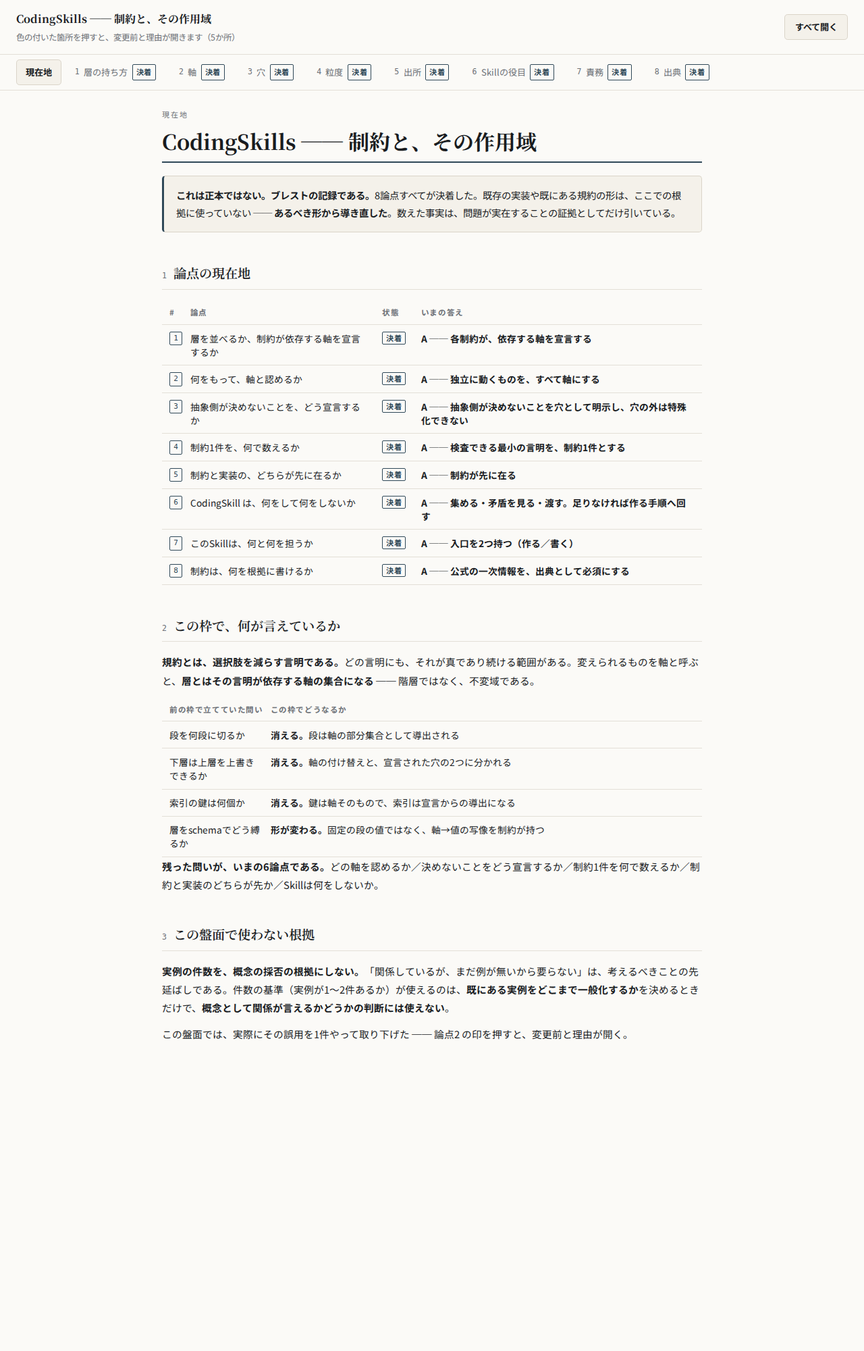
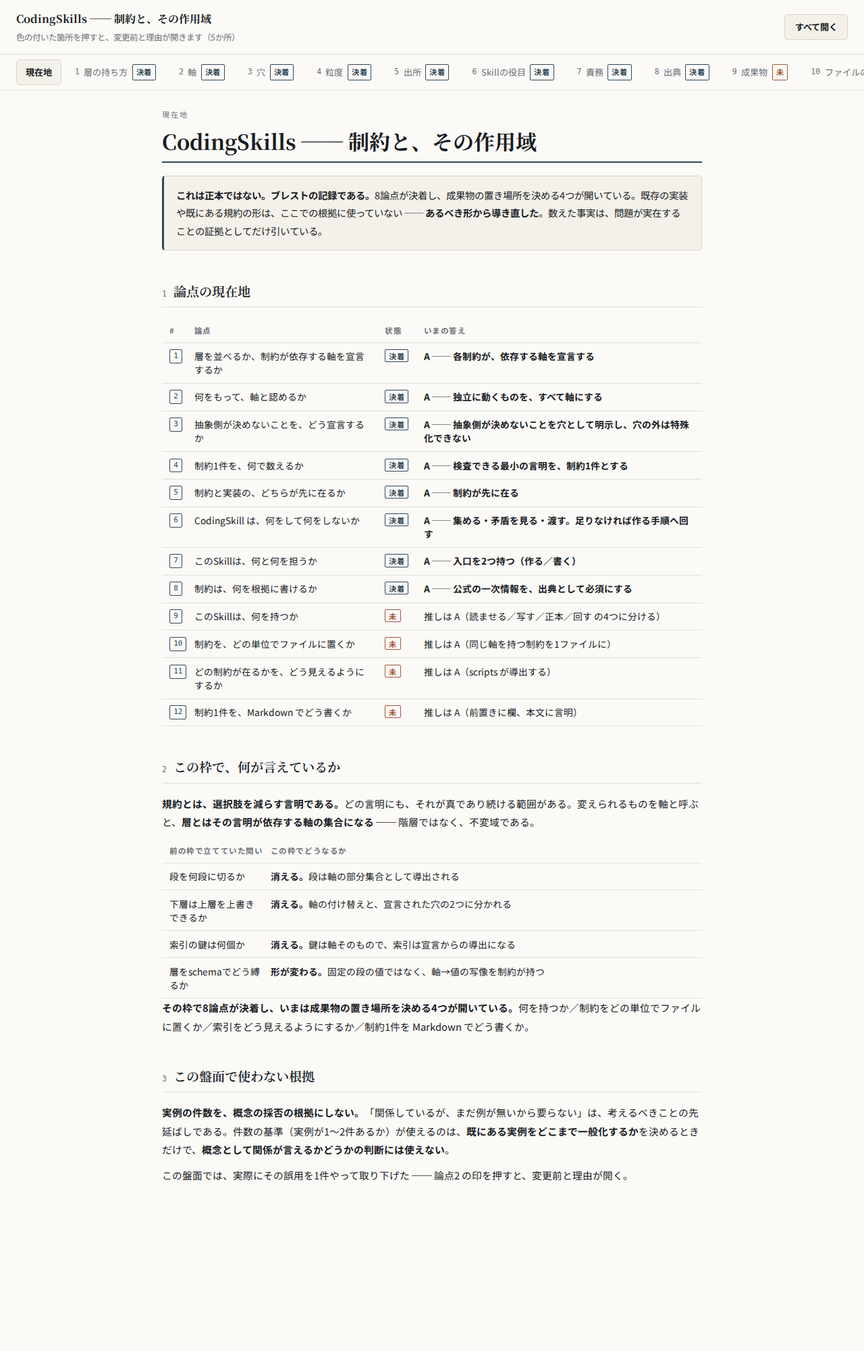
成果物と置き場所の4論点を立てる
論点9（何を持つか）・論点10（制約をどの単位でファイルに置くか）・
論点11（索引をどう見えるようにするか）・論点12（制約1件を Markdown でどう
書くか）を足した。図は2枚 ── フォルダごとの役割と、ファイルの切り方3案で
軸の宣言がどこに何回現れるか。

Why: schema へ落とす前に、まず Markdown の雛形を作る。そのためには、雛形が
どこに置かれ、正本がどこに在り、機械が何を回すかが先に要る。決まった8つから
導けるものは導き、選択が残るところだけを論点にした。

Claude-Session: https://claude.ai/code/session_01VoPqHBXHr7Npdh9tNXyFNU

diff --git a/docs/adr/brainstorm-coding-skills.html b/docs/adr/brainstorm-coding-skills.html
@@ -122,7 +122,7 @@ mark.chg.del b{text-decoration:line-through}
 .st.done{color:var(--key);border-color:var(--key)}
 .st.open{color:var(--add);border-color:var(--add)}
 section[role="tabpanel"][hidden]{display:none}
-</style><div class="hd"><div class="t">CodingSkills ── 制約と、その作用域<small>色の付いた箇所を押すと、変更前と理由が開きます（<span id="n">0</span>か所）</small></div><button id="all" type="button">すべて開く</button></div><div class="tabs" role="tablist"><button role="tab" aria-selected="true" data-t="p0">現在地</button><button role="tab" aria-selected="false" data-t="p1"><span class="tn">1</span>層の持ち方<span class="st done">決着</span></button><button role="tab" aria-selected="false" data-t="p2"><span class="tn">2</span>軸<span class="st done">決着</span></button><button role="tab" aria-selected="false" data-t="p3"><span class="tn">3</span>穴<span class="st done">決着</span></button><button role="tab" aria-selected="false" data-t="p4"><span class="tn">4</span>粒度<span class="st done">決着</span></button><button role="tab" aria-selected="false" data-t="p5"><span class="tn">5</span>出所<span class="st done">決着</span></button><button role="tab" aria-selected="false" data-t="p6"><span class="tn">6</span>Skillの役目<span class="st done">決着</span></button><button role="tab" aria-selected="false" data-t="p7"><span class="tn">7</span>責務<span class="st done">決着</span></button><button role="tab" aria-selected="false" data-t="p8"><span class="tn">8</span>出典<span class="st done">決着</span></button></div><main><section id="p0" role="tabpanel"><p class="eyebrow">現在地</p><h1>CodingSkills ── 制約と、その作用域</h1><div class="note"><b>これは正本ではない。ブレストの記録である。</b>8論点すべてが決着した。既存の実装や既にある規約の形は、ここでの根拠に使っていない ── <b>あるべき形から導き直した</b>。数えた事実は、問題が実在することの証拠としてだけ引いている。</div><h2><span class="sn">1</span>論点の現在地</h2><div class="scroll"><table class=""><tr><th>#</th><th>論点</th><th>状態</th><th>いまの答え</th></tr><tr><td><span class="n">1</span></td><td>層を並べるか、制約が依存する軸を宣言するか</td><td><span class="st done">決着</span></td><td><b>A ── 各制約が、依存する軸を宣言する</b></td></tr><tr><td><span class="n">2</span></td><td>何をもって、軸と認めるか</td><td><span class="st done">決着</span></td><td><b>A ── 独立に動くものを、すべて軸にする</b></td></tr><tr><td><span class="n">3</span></td><td>抽象側が決めないことを、どう宣言するか</td><td><span class="st done">決着</span></td><td><b>A ── 抽象側が決めないことを穴として明示し、穴の外は特殊化できない</b></td></tr><tr><td><span class="n">4</span></td><td>制約1件を、何で数えるか</td><td><span class="st done">決着</span></td><td><b>A ── 検査できる最小の言明を、制約1件とする</b></td></tr><tr><td><span class="n">5</span></td><td>制約と実装の、どちらが先に在るか</td><td><span class="st done">決着</span></td><td><b>A ── 制約が先に在る</b></td></tr><tr><td><span class="n">6</span></td><td>CodingSkill は、何をして何をしないか</td><td><span class="st done">決着</span></td><td><b>A ── 集める・矛盾を見る・渡す。足りなければ作る手順へ回す</b></td></tr><tr><td><span class="n">7</span></td><td>このSkillは、何と何を担うか</td><td><span class="st done">決着</span></td><td><b>A ── 入口を2つ持つ（作る／書く）</b></td></tr><tr><td><span class="n">8</span></td><td>制約は、何を根拠に書けるか</td><td><span class="st done">決着</span></td><td><b>A ── 公式の一次情報を、出典として必須にする</b></td></tr></table></div><h2><span class="sn">2</span>この枠で、何が言えているか</h2><p class='lead'><b>規約とは、選択肢を減らす言明である。</b>どの言明にも、それが真であり続ける範囲がある。変えられるものを軸と呼ぶと、<b>層とはその言明が依存する軸の集合になる</b> ── 階層ではなく、不変域である。</p><div class="scroll"><table class=""><tr><th>前の枠で立てていた問い</th><th>この枠でどうなるか</th></tr><tr><td>段を何段に切るか</td><td><b>消える。</b>段は軸の部分集合として導出される</td></tr><tr><td>下層は上層を上書きできるか</td><td><b>消える。</b>軸の付け替えと、宣言された穴の2つに分かれる</td></tr><tr><td>索引の鍵は何個か</td><td><b>消える。</b>鍵は軸そのもので、索引は宣言からの導出になる</td></tr><tr><td>層をschemaでどう縛るか</td><td><b>形が変わる。</b>固定の段の値ではなく、軸→値の写像を制約が持つ</td></tr></table></div><p class='lead'><b>残った問いが、いまの6論点である。</b>どの軸を認めるか／決めないことをどう宣言するか／制約1件を何で数えるか／制約と実装のどちらが先か／Skillは何をしないか。</p><h2><span class="sn">3</span>この盤面で使わない根拠</h2><p class='lead'><b>実例の件数を、概念の採否の根拠にしない。</b>「関係しているが、まだ例が無いから要らない」は、考えるべきことの先延ばしである。件数の基準（実例が1〜2件あるか）が使えるのは、<b>既にある実例をどこまで一般化するか</b>を決めるときだけで、<b>概念として関係が言えるかどうかの判断には使えない</b>。</p><p class='lead'>この盤面では、実際にその誤用を1件やって取り下げた ── 論点2 の印を押すと、変更前と理由が開く。</p></section><section id="p1" role="tabpanel" hidden><p class="eyebrow">論点 1</p><h1>層を並べるか、制約が依存する軸を宣言するか</h1><div class="note"><b>制約とは、選択肢を減らす言明である。そしてどの制約にも、それが真であり続ける範囲がある。</b>変えられるものを軸と呼ぶと、<b>層とは、その制約が依存する軸の集合になる</b>。</div><h2><span class="sn">1</span>反証を通過した案</h2><div class="scroll"><table class="opts"><tr><th></th><th>案</th><th>中身</th><th>代償</th></tr><tr><td><span class="n ">A</span></td><td><b>各制約が、依存する軸を宣言する</b></td><td>層は宣言から導出される。フォルダは、その導出をどう並べて見せるかにすぎない</td><td><span class="cost">制約1件ごとに宣言を書く手間が増える。<b>層が一覧として見えないので、見せ方を別に作る</b></span></td></tr><tr><td><span class="n ">B</span></td><td><b>層をあらかじめ並べ、制約をそこへ置く</b></td><td>言語／アーキ／束ね／目的の段を先に決め、規約をその段へ配る</td><td><span class="cost"><b>軸が増えたとき、段の切り直しになる</b>。実行環境や規模を軸に足したくなった時点で、全部を並べ替える</span></td></tr><tr><td><span class="n ">C</span></td><td><b>層を持たず、場面ごとに規約一式を作る</b></td><td>目的と言語の組ごとに、必要な制約を全部書く</td><td><span class="cost">同じ言明が組の数だけ写る。<b>直す場所が1か所に決まらない</b></span></td></tr></table></div><h2><span class="sn">2</span>反証で分かったこと</h2><ul class='found'><li><b>「4段」は、軸を2本に絞ったときの部分集合にすぎなかった。</b>段数は決めるものではなく、軸から導出される</li><li><b>フォルダ構成は、この論点の答えではない。</b>導出をどう見せるかであって、何が真かとは別のこと</li></ul><h2><span class="sn">3</span>私の推し</h2><div class="concl"><span class="n big">A</span><div><p>各制約が、依存する軸を宣言する。層はそこから導出する</p></div></div><h3>なぜそう言えるか</h3><div class="scroll"><table class="why"><tr><th>結論のどこを支えるか</th><th>もとにしたこと</th><th>その出どころ</th></tr><tr><td><span class="part">層を導出にすること</span></td><td>層とは、制約が依存する軸の集合である</td><td><span class="kind k-given">前提</span><small>この盤面の出発点（規約＝制約の宣言、作用域＝依存する軸）</small></td></tr><tr><td><span class="part">並べないこと</span></td><td>層を先に並べると、宣言の誤りが「どの段に置くか」の悩みとして出る</td><td><span class="kind k-rule">決まり</span><small>前の枠で実際に4段を並べ、段の切り方が論点になった</small></td></tr><tr><td><span class="part">フォルダを答えにしないこと</span></td><td>同じ制約が2か所に現れるのは、軸の宣言が足りないとき</td><td><span class="kind k-given">前提</span><small>既存の規約13本で、同じ言明が対象ごとに写っている（`.waffle/documents/coding`）</small></td></tr></table></div><h3>図で見る</h3><figure><svg viewBox="0 0 780 320" role="img" aria-label="各制約が依存する軸を宣言すると、層はその宣言から導出される">
+</style><div class="hd"><div class="t">CodingSkills ── 制約と、その作用域<small>色の付いた箇所を押すと、変更前と理由が開きます（<span id="n">0</span>か所）</small></div><button id="all" type="button">すべて開く</button></div><div class="tabs" role="tablist"><button role="tab" aria-selected="true" data-t="p0">現在地</button><button role="tab" aria-selected="false" data-t="p1"><span class="tn">1</span>層の持ち方<span class="st done">決着</span></button><button role="tab" aria-selected="false" data-t="p2"><span class="tn">2</span>軸<span class="st done">決着</span></button><button role="tab" aria-selected="false" data-t="p3"><span class="tn">3</span>穴<span class="st done">決着</span></button><button role="tab" aria-selected="false" data-t="p4"><span class="tn">4</span>粒度<span class="st done">決着</span></button><button role="tab" aria-selected="false" data-t="p5"><span class="tn">5</span>出所<span class="st done">決着</span></button><button role="tab" aria-selected="false" data-t="p6"><span class="tn">6</span>Skillの役目<span class="st done">決着</span></button><button role="tab" aria-selected="false" data-t="p7"><span class="tn">7</span>責務<span class="st done">決着</span></button><button role="tab" aria-selected="false" data-t="p8"><span class="tn">8</span>出典<span class="st done">決着</span></button><button role="tab" aria-selected="false" data-t="p9"><span class="tn">9</span>成果物<span class="st open">未</span></button><button role="tab" aria-selected="false" data-t="p10"><span class="tn">10</span>ファイルの粒度<span class="st open">未</span></button><button role="tab" aria-selected="false" data-t="p11"><span class="tn">11</span>索引<span class="st open">未</span></button><button role="tab" aria-selected="false" data-t="p12"><span class="tn">12</span>制約の書き表し方<span class="st open">未</span></button></div><main><section id="p0" role="tabpanel"><p class="eyebrow">現在地</p><h1>CodingSkills ── 制約と、その作用域</h1><div class="note"><b>これは正本ではない。ブレストの記録である。</b>8論点が決着し、成果物の置き場所を決める4つが開いている。既存の実装や既にある規約の形は、ここでの根拠に使っていない ── <b>あるべき形から導き直した</b>。数えた事実は、問題が実在することの証拠としてだけ引いている。</div><h2><span class="sn">1</span>論点の現在地</h2><div class="scroll"><table class=""><tr><th>#</th><th>論点</th><th>状態</th><th>いまの答え</th></tr><tr><td><span class="n">1</span></td><td>層を並べるか、制約が依存する軸を宣言するか</td><td><span class="st done">決着</span></td><td><b>A ── 各制約が、依存する軸を宣言する</b></td></tr><tr><td><span class="n">2</span></td><td>何をもって、軸と認めるか</td><td><span class="st done">決着</span></td><td><b>A ── 独立に動くものを、すべて軸にする</b></td></tr><tr><td><span class="n">3</span></td><td>抽象側が決めないことを、どう宣言するか</td><td><span class="st done">決着</span></td><td><b>A ── 抽象側が決めないことを穴として明示し、穴の外は特殊化できない</b></td></tr><tr><td><span class="n">4</span></td><td>制約1件を、何で数えるか</td><td><span class="st done">決着</span></td><td><b>A ── 検査できる最小の言明を、制約1件とする</b></td></tr><tr><td><span class="n">5</span></td><td>制約と実装の、どちらが先に在るか</td><td><span class="st done">決着</span></td><td><b>A ── 制約が先に在る</b></td></tr><tr><td><span class="n">6</span></td><td>CodingSkill は、何をして何をしないか</td><td><span class="st done">決着</span></td><td><b>A ── 集める・矛盾を見る・渡す。足りなければ作る手順へ回す</b></td></tr><tr><td><span class="n">7</span></td><td>このSkillは、何と何を担うか</td><td><span class="st done">決着</span></td><td><b>A ── 入口を2つ持つ（作る／書く）</b></td></tr><tr><td><span class="n">8</span></td><td>制約は、何を根拠に書けるか</td><td><span class="st done">決着</span></td><td><b>A ── 公式の一次情報を、出典として必須にする</b></td></tr><tr><td><span class="n">9</span></td><td>このSkillは、何を持つか</td><td><span class="st open">未</span></td><td>推しは A（読ませる／写す／正本／回す の4つに分ける）</td></tr><tr><td><span class="n">10</span></td><td>制約を、どの単位でファイルに置くか</td><td><span class="st open">未</span></td><td>推しは A（同じ軸を持つ制約を1ファイルに）</td></tr><tr><td><span class="n">11</span></td><td>どの制約が在るかを、どう見えるようにするか</td><td><span class="st open">未</span></td><td>推しは A（scripts が導出する）</td></tr><tr><td><span class="n">12</span></td><td>制約1件を、Markdown でどう書くか</td><td><span class="st open">未</span></td><td>推しは A（前置きに欄、本文に言明）</td></tr></table></div><h2><span class="sn">2</span>この枠で、何が言えているか</h2><p class='lead'><b>規約とは、選択肢を減らす言明である。</b>どの言明にも、それが真であり続ける範囲がある。変えられるものを軸と呼ぶと、<b>層とはその言明が依存する軸の集合になる</b> ── 階層ではなく、不変域である。</p><div class="scroll"><table class=""><tr><th>前の枠で立てていた問い</th><th>この枠でどうなるか</th></tr><tr><td>段を何段に切るか</td><td><b>消える。</b>段は軸の部分集合として導出される</td></tr><tr><td>下層は上層を上書きできるか</td><td><b>消える。</b>軸の付け替えと、宣言された穴の2つに分かれる</td></tr><tr><td>索引の鍵は何個か</td><td><b>消える。</b>鍵は軸そのもので、索引は宣言からの導出になる</td></tr><tr><td>層をschemaでどう縛るか</td><td><b>形が変わる。</b>固定の段の値ではなく、軸→値の写像を制約が持つ</td></tr></table></div><p class='lead'><b>その枠で8論点が決着し、いまは成果物の置き場所を決める4つが開いている。</b>何を持つか／制約をどの単位でファイルに置くか／索引をどう見えるようにするか／制約1件を Markdown でどう書くか。</p><h2><span class="sn">3</span>この盤面で使わない根拠</h2><p class='lead'><b>実例の件数を、概念の採否の根拠にしない。</b>「関係しているが、まだ例が無いから要らない」は、考えるべきことの先延ばしである。件数の基準（実例が1〜2件あるか）が使えるのは、<b>既にある実例をどこまで一般化するか</b>を決めるときだけで、<b>概念として関係が言えるかどうかの判断には使えない</b>。</p><p class='lead'>この盤面では、実際にその誤用を1件やって取り下げた ── 論点2 の印を押すと、変更前と理由が開く。</p></section><section id="p1" role="tabpanel" hidden><p class="eyebrow">論点 1</p><h1>層を並べるか、制約が依存する軸を宣言するか</h1><div class="note"><b>制約とは、選択肢を減らす言明である。そしてどの制約にも、それが真であり続ける範囲がある。</b>変えられるものを軸と呼ぶと、<b>層とは、その制約が依存する軸の集合になる</b>。</div><h2><span class="sn">1</span>反証を通過した案</h2><div class="scroll"><table class="opts"><tr><th></th><th>案</th><th>中身</th><th>代償</th></tr><tr><td><span class="n ">A</span></td><td><b>各制約が、依存する軸を宣言する</b></td><td>層は宣言から導出される。フォルダは、その導出をどう並べて見せるかにすぎない</td><td><span class="cost">制約1件ごとに宣言を書く手間が増える。<b>層が一覧として見えないので、見せ方を別に作る</b></span></td></tr><tr><td><span class="n ">B</span></td><td><b>層をあらかじめ並べ、制約をそこへ置く</b></td><td>言語／アーキ／束ね／目的の段を先に決め、規約をその段へ配る</td><td><span class="cost"><b>軸が増えたとき、段の切り直しになる</b>。実行環境や規模を軸に足したくなった時点で、全部を並べ替える</span></td></tr><tr><td><span class="n ">C</span></td><td><b>層を持たず、場面ごとに規約一式を作る</b></td><td>目的と言語の組ごとに、必要な制約を全部書く</td><td><span class="cost">同じ言明が組の数だけ写る。<b>直す場所が1か所に決まらない</b></span></td></tr></table></div><h2><span class="sn">2</span>反証で分かったこと</h2><ul class='found'><li><b>「4段」は、軸を2本に絞ったときの部分集合にすぎなかった。</b>段数は決めるものではなく、軸から導出される</li><li><b>フォルダ構成は、この論点の答えではない。</b>導出をどう見せるかであって、何が真かとは別のこと</li></ul><h2><span class="sn">3</span>私の推し</h2><div class="concl"><span class="n big">A</span><div><p>各制約が、依存する軸を宣言する。層はそこから導出する</p></div></div><h3>なぜそう言えるか</h3><div class="scroll"><table class="why"><tr><th>結論のどこを支えるか</th><th>もとにしたこと</th><th>その出どころ</th></tr><tr><td><span class="part">層を導出にすること</span></td><td>層とは、制約が依存する軸の集合である</td><td><span class="kind k-given">前提</span><small>この盤面の出発点（規約＝制約の宣言、作用域＝依存する軸）</small></td></tr><tr><td><span class="part">並べないこと</span></td><td>層を先に並べると、宣言の誤りが「どの段に置くか」の悩みとして出る</td><td><span class="kind k-rule">決まり</span><small>前の枠で実際に4段を並べ、段の切り方が論点になった</small></td></tr><tr><td><span class="part">フォルダを答えにしないこと</span></td><td>同じ制約が2か所に現れるのは、軸の宣言が足りないとき</td><td><span class="kind k-given">前提</span><small>既存の規約13本で、同じ言明が対象ごとに写っている（`.waffle/documents/coding`）</small></td></tr></table></div><h3>図で見る</h3><figure><svg viewBox="0 0 780 320" role="img" aria-label="各制約が依存する軸を宣言すると、層はその宣言から導出される">
 <text x="8" y="18" font-size="11.5" font-weight="700" fill="var(--muted)">制約</text>
 <text x="330" y="18" font-size="11.5" font-weight="700" fill="var(--muted)">依存する軸</text>
 <text x="600" y="18" font-size="11.5" font-weight="700" fill="var(--key)">導出される層</text>
@@ -341,7 +341,86 @@ section[role="tabpanel"][hidden]{display:none}
 
 <line x1="8" y1="244" x2="772" y2="244" stroke="var(--rule)"/>
 <text x="8" y="262" font-size="11.5" fill="var(--muted)">出典を必須にすると、<tspan font-weight="700" fill="var(--key)">プロジェクト固有の決めごとは書けなくなる</tspan>。排除の規則を別に置く必要が無い。</text>
-</svg><figcaption>左が書こうとしている制約、右がその出典である。</figcaption></figure><h3>引き受けること</h3><ul class="found"><li>出典が無いが正しい経験則は、この規約に入らない。書きたければ、まず一次情報を探す</li></ul><h3>まだ崩れうるところ</h3><ul class="found"><li>確立した文献にも版があり、版によって内容が変わる。<b>「公式」であることは、正しさを保証しない</b></li><li>公式の一次情報が、どの言語・目的にも在るかは分からない（確かめていない）</li></ul><h2><span class="sn">5</span>あなたの見解</h2><div class="you">✏　記号を選ぶ（どれでもなければ、そう言う）</div><h2><span class="sn">6</span>決まり</h2><div class="next">選ばれた案が合意になり、次の論点へ</div></section></main>
+</svg><figcaption>左が書こうとしている制約、右がその出典である。</figcaption></figure><h3>引き受けること</h3><ul class="found"><li>出典が無いが正しい経験則は、この規約に入らない。書きたければ、まず一次情報を探す</li></ul><h3>まだ崩れうるところ</h3><ul class="found"><li>確立した文献にも版があり、版によって内容が変わる。<b>「公式」であることは、正しさを保証しない</b></li><li>公式の一次情報が、どの言語・目的にも在るかは分からない（確かめていない）</li></ul><h2><span class="sn">5</span>あなたの見解</h2><div class="you">✏　記号を選ぶ（どれでもなければ、そう言う）</div><h2><span class="sn">6</span>決まり</h2><div class="next">選ばれた案が合意になり、次の論点へ</div></section><section id="p9" role="tabpanel" hidden><p class="eyebrow">論点 9</p><h1>このSkillは、何を持つか</h1><div class="note">決まった8つから、要るものは導ける。<b>役割が違うものを同じ場所に置かない</b>のが、ここでの判断である。</div><h2><span class="sn">1</span>反証を通過した案</h2><div class="scroll"><table class="opts"><tr><th></th><th>案</th><th>中身</th><th>代償</th></tr><tr><td><span class="n ">A</span></td><td><b>references・templates・constraints・scripts の4つを分ける</b></td><td>読ませるもの／写して埋めるもの／規約の正本／機械が回すもの を、別の場所に置く</td><td><span class="cost">フォルダが4つになる。<b>どれに置くかの判断が、書くたびに1回増える</b></span></td></tr><tr><td><span class="n ">B</span></td><td><b>references と templates の2つにする</b></td><td>制約の正本も references の中に置き、機械処理は持たない</td><td><span class="cost"><b>集める・矛盾を見るを、毎回AIが読み下して行う</b>。同じ問いに同じ範囲が返る保証が無い</span></td></tr><tr><td><span class="n ">C</span></td><td><b>references 1つにまとめる</b></td><td>雛形も制約も、すべて references の下に置く</td><td><span class="cost">AI が毎回「これは読む規律か、写す雛形か、正本か」を判断する。<b>取り違えても気づけない</b></span></td></tr></table></div><h2><span class="sn">2</span>反証で分かったこと</h2><ul class='found'><li><b>4つの役割は、決まった8つから出てくる</b> ── 作る入口が読むもの（references）、写すもの（templates）、承認を経た正本（constraints）、集める側が回すもの（scripts）</li><li><b>層でフォルダを切らない。</b>層は宣言から導出されるので、フォルダは人が読むための投影にすぎない</li></ul><h2><span class="sn">3</span>私の推し</h2><div class="concl"><span class="n big">A</span><div><p>references・templates・constraints・scripts の4つに分ける</p></div></div><h3>なぜそう言えるか</h3><div class="scroll"><table class="why"><tr><th>結論のどこを支えるか</th><th>もとにしたこと</th><th>その出どころ</th></tr><tr><td><span class="part">分けること</span></td><td>作る手順と書く手順は交わらず、読むものが違う</td><td><span class="kind k-rule">決まり</span><small>論点7 の決まり（入口を2つ持つ）</small></td></tr><tr><td><span class="part">scripts を持つこと</span></td><td>集める・矛盾を見るは、同じ問いに同じ範囲が返る必要がある</td><td><span class="kind k-rule">決まり</span><small>論点6 の決まり（集める・矛盾を見る・渡す）</small></td></tr><tr><td><span class="part">constraints を分けること</span></td><td>正本に入るのは、人の承認を経た制約だけである</td><td><span class="kind k-rule">決まり</span><small>論点7 の決まり（作る手順は原典→承認→正本）</small></td></tr></table></div><h3>図で見る</h3><figure><svg viewBox="0 0 780 330" role="img" aria-label="Skillのフォルダ構成と、それぞれが誰のためのものか">
+<defs><marker id="t1" viewBox="0 0 10 10" refX="9" refY="5" markerWidth="7" markerHeight="7" orient="auto-start-reverse"><path d="M0 0 L10 5 L0 10 z" fill="var(--key)"/></marker>
+<marker id="t2" viewBox="0 0 10 10" refX="9" refY="5" markerWidth="7" markerHeight="7" orient="auto-start-reverse"><path d="M0 0 L10 5 L0 10 z" fill="var(--add)"/></marker></defs>
+<text x="8" y="18" font-size="11" fill="var(--muted)">置くもの</text>
+<text x="330" y="18" font-size="11" fill="var(--muted)">何のためか</text>
+<text x="600" y="18" font-size="11" fill="var(--muted)">誰が使うか</text>
+<line x1="8" y1="26" x2="772" y2="26" stroke="var(--rule)"/>
+
+<rect x="8" y="38" width="300" height="32" fill="none" stroke="var(--key)" stroke-width="1.8"/>
+<text x="20" y="59" font-size="12" font-weight="700" fill="var(--key)">SKILL.md</text>
+<text x="330" y="59" font-size="11" fill="currentColor">書く手順（索引して従う）</text>
+<text x="600" y="59" font-size="11" fill="var(--muted)">毎回踏む</text>
+
+<rect x="28" y="80" width="280" height="32" fill="none" stroke="currentColor" stroke-width="1.3"/>
+<text x="40" y="101" font-size="12" fill="currentColor">references/</text>
+<text x="330" y="101" font-size="11" fill="currentColor">読ませるもの ── 制約の書き方・軸・出典の規律</text>
+<text x="600" y="101" font-size="11" fill="var(--muted)">作るときに読む</text>
+
+<rect x="28" y="122" width="280" height="32" fill="none" stroke="currentColor" stroke-width="1.3"/>
+<text x="40" y="143" font-size="12" fill="currentColor">templates/</text>
+<text x="330" y="143" font-size="11" fill="currentColor">写して埋めるもの ── 制約1件・規約1本の雛形</text>
+<text x="600" y="143" font-size="11" fill="var(--muted)">作るときに写す</text>
+
+<rect x="28" y="164" width="280" height="42" fill="none" stroke="var(--add)" stroke-width="1.8"/>
+<text x="40" y="185" font-size="12" font-weight="700" fill="var(--add)">constraints/</text>
+<text x="40" y="200" font-size="10" fill="var(--muted)">1ファイル＝同じ軸を持つ制約の集まり</text>
+<text x="330" y="185" font-size="11" fill="var(--add)">規約の正本 ── 制約そのもの</text>
+<text x="330" y="200" font-size="10.5" fill="var(--muted)">承認を経たものだけが入る</text>
+<text x="600" y="185" font-size="11" fill="var(--muted)">集める対象</text>
+
+<rect x="28" y="216" width="280" height="32" fill="none" stroke="currentColor" stroke-width="1.3"/>
+<text x="40" y="237" font-size="12" fill="currentColor">scripts/</text>
+<text x="330" y="237" font-size="11" fill="currentColor">機械が回すもの ── 集める・形を検める・索引を出す</text>
+<text x="600" y="237" font-size="11" fill="var(--muted)">毎回動く</text>
+
+<line x1="8" y1="264" x2="772" y2="264" stroke="var(--rule)"/>
+<path d="M158 248 L158 276 L330 276" fill="none" stroke="var(--add)" stroke-width="1.6" marker-end="url(#t2)"/>
+<text x="338" y="280" font-size="11" fill="var(--add)">軸の値を渡すと、合致した制約が集まって返る</text>
+<text x="8" y="306" font-size="11.5" fill="var(--muted)">4つは役割が違う ── <tspan font-weight="700" fill="var(--key)">読ませる／写す／正本／回す</tspan>。混ぜると、どれを読むべきかを毎回判断することになる。</text>
+<text x="8" y="324" font-size="11.5" fill="var(--muted)">層でフォルダを切らない。<tspan font-weight="700" fill="var(--add)">層は宣言から導出され、フォルダは人が読むための投影にすぎない</tspan>（論点1）。</text>
+</svg><figcaption>左が置くもの、右がそれを誰がいつ使うかである。</figcaption></figure><h3>引き受けること</h3><ul class="found"><li>置き場所の判断が、制約を書くたびに1回増える</li></ul><h3>まだ崩れうるところ</h3><ul class="found"><li>scripts が動く環境（Python）を前提にする ── 動かない環境では、集める段が手作業に落ちる</li></ul><h2><span class="sn">4</span>あなたの見解</h2><div class="you">✏　記号を選ぶ（どれでもなければ、そう言う）</div><h2><span class="sn">5</span>決まり</h2><div class="next">選ばれた案が合意になり、次の論点へ</div></section><section id="p10" role="tabpanel" hidden><p class="eyebrow">論点 10</p><h1>制約を、どの単位でファイルに置くか</h1><div class="note">層は導出なので、<b>ファイルの切り方は「層をどう見せるか」の話</b>であって、層そのものではない。</div><h2><span class="sn">1</span>反証を通過した案</h2><div class="scroll"><table class="opts"><tr><th></th><th>案</th><th>中身</th><th>代償</th></tr><tr><td><span class="n ">A</span></td><td><b>同じ軸を持つ制約を、1ファイルにまとめる</b></td><td>ファイルの前置きで軸を1回宣言し、その下に制約を並べる。<b>1ファイルが、そのまま層の投影になる</b></td><td><span class="cost">制約の軸が変わったら、ファイルを移す。<b>移し忘れると、宣言と中身がずれる</b></span></td></tr><tr><td><span class="n ">B</span></td><td><b>1ファイル1制約</b></td><td>制約ごとにファイルを作り、軸もそこに書く</td><td><span class="cost"><b>軸の宣言が制約の数だけ写る。</b>人が1本として読む単位も消える</span></td></tr><tr><td><span class="n ">C</span></td><td><b>規約の種別で1ファイル</b></td><td>コーディング規約・テスト規約…という単位でファイルを切る</td><td><span class="cost"><b>1枚の中に別々の軸が混ざる。</b>集める側は行ごとに軸を見ることになる</span></td></tr></table></div><h2><span class="sn">2</span>反証で分かったこと</h2><ul class='found'><li><b>どの案でも、制約の同一性は軸の宣言が持つ</b> ── ファイルの場所は鍵ではない</li><li><b>ファイルを移す操作は検知できる</b> ── 宣言した軸と、置かれた場所が食い違えば分かる</li></ul><h2><span class="sn">3</span>私の推し</h2><div class="concl"><span class="n big">A</span><div><p>同じ軸を持つ制約を、1ファイルにまとめる。ファイルの前置きで軸を1回宣言する</p></div></div><h3>なぜそう言えるか</h3><div class="scroll"><table class="why"><tr><th>結論のどこを支えるか</th><th>もとにしたこと</th><th>その出どころ</th></tr><tr><td><span class="part">1枚にまとめること</span></td><td>人が読んで承認する単位は文書である</td><td><span class="kind k-rule">決まり</span><small>schema 観の三層の論点2（単位は読み手に従属する）</small></td></tr><tr><td><span class="part">軸で切ること</span></td><td>層とは、制約が依存する軸の集合である</td><td><span class="kind k-rule">決まり</span><small>論点1 の決まり</small></td></tr><tr><td><span class="part">種別で切らないこと</span></td><td>種別と層は別の軸で、直交する</td><td><span class="kind k-rule">決まり</span><small>前の枠で確かめた（段と規約種別は直交する）</small></td></tr></table></div><h3>図で見る</h3><figure><svg viewBox="0 0 780 300" role="img" aria-label="制約をどの粒度でファイルに置くかで、重複と読む単位が変わる">
+<text x="8" y="18" font-size="11.5" font-weight="700" fill="var(--key)">A　同じ軸を持つ制約を1ファイルに</text>
+<rect x="8" y="30" width="230" height="96" fill="none" stroke="var(--key)" stroke-width="1.8"/>
+<text x="20" y="50" font-size="10.5" fill="var(--key)">軸：言語＝Rust</text>
+<line x1="20" y1="56" x2="226" y2="56" stroke="var(--rule)"/>
+<text x="20" y="74" font-size="10.5" fill="currentColor">・エラーは値で返す</text>
+<text x="20" y="92" font-size="10.5" fill="currentColor">・公開は明示する</text>
+<text x="20" y="110" font-size="10.5" fill="currentColor">・命名は用途を述べる</text>
+<text x="8" y="152" font-size="11" fill="var(--key)">軸の宣言は1回。人はこの1枚を読む</text>
+<text x="8" y="172" font-size="10.5" fill="var(--muted)">軸が変わった制約は、別のファイルへ移る</text>
+
+<line x1="258" y1="8" x2="258" y2="292" stroke="var(--rule)"/>
+
+<text x="278" y="18" font-size="11.5" font-weight="700" fill="var(--muted)">B　1ファイル1制約</text>
+<rect x="278" y="30" width="200" height="26" fill="none" stroke="var(--muted)"/>
+<text x="288" y="47" font-size="10" fill="var(--muted)">軸：言語＝Rust ／ エラーは値で返す</text>
+<rect x="278" y="62" width="200" height="26" fill="none" stroke="var(--muted)"/>
+<text x="288" y="79" font-size="10" fill="var(--muted)">軸：言語＝Rust ／ 公開は明示する</text>
+<rect x="278" y="94" width="200" height="26" fill="none" stroke="var(--muted)"/>
+<text x="288" y="111" font-size="10" fill="var(--muted)">軸：言語＝Rust ／ 命名は用途を述べる</text>
+<text x="278" y="152" font-size="11" fill="var(--add)">軸の宣言が、制約の数だけ写る</text>
+<text x="278" y="172" font-size="10.5" fill="var(--muted)">人が1本として読む単位が消える</text>
+
+<line x1="498" y1="8" x2="498" y2="292" stroke="var(--rule)"/>
+
+<text x="518" y="18" font-size="11.5" font-weight="700" fill="var(--muted)">C　規約の種別で1ファイル</text>
+<rect x="518" y="30" width="244" height="96" fill="none" stroke="var(--muted)"/>
+<text x="530" y="50" font-size="10.5" fill="var(--muted)">コーディング規約</text>
+<line x1="530" y1="56" x2="750" y2="56" stroke="var(--rule)"/>
+<text x="530" y="74" font-size="10" fill="currentColor">・エラーは値で返す　　<tspan fill="var(--add)">軸：言語</tspan></text>
+<text x="530" y="92" font-size="10" fill="currentColor">・層は module で表す　<tspan fill="var(--add)">軸：言語, アーキ</tspan></text>
+<text x="530" y="110" font-size="10" fill="currentColor">・起動は都度　　　　　<tspan fill="var(--add)">軸：目的</tspan></text>
+<text x="518" y="152" font-size="11" fill="var(--add)">1枚の中に、別々の軸が混ざる</text>
+<text x="518" y="172" font-size="10.5" fill="var(--muted)">集める側は、行ごとに軸を見ることになる</text>
+
+<line x1="8" y1="196" x2="772" y2="196" stroke="var(--rule)"/>
+<text x="8" y="220" font-size="11.5" fill="var(--muted)">ファイルの切り方は、<tspan font-weight="700" fill="var(--key)">層をどう見せるか</tspan>の話であって、層そのものではない。</text>
+<text x="8" y="242" font-size="11.5" fill="var(--muted)">同じ軸を持つ制約を1枚にすると、その1枚が<tspan font-weight="700" fill="var(--key)">そのまま層の投影</tspan>になり、軸の宣言も1回で済む。</text>
+<text x="8" y="272" font-size="11" fill="var(--add)">どの案でも、制約の同一性は軸の宣言が持つ ── ファイルの場所は鍵ではない。</text>
+</svg><figcaption>3案それぞれで、軸の宣言がどこに何回現れるかを並べた。</figcaption></figure><h3>引き受けること</h3><ul class="found"><li>制約の軸が変わったら、ファイルを移す</li></ul><h2><span class="sn">4</span>あなたの見解</h2><div class="you">✏　記号を選ぶ（どれでもなければ、そう言う）</div><h2><span class="sn">5</span>決まり</h2><div class="next">選ばれた案が合意になり、次の論点へ</div></section><section id="p11" role="tabpanel" hidden><p class="eyebrow">論点 11</p><h1>どの制約が在るかを、どう見えるようにするか</h1><div class="note"><b>取得が揺れると、推論の入力が毎回変わる。</b>索引は便利さの話ではなく、出力の安定の話である。</div><h2><span class="sn">1</span>反証を通過した案</h2><div class="scroll"><table class="opts"><tr><th></th><th>案</th><th>中身</th><th>代償</th></tr><tr><td><span class="n ">A</span></td><td><b>scripts が索引を導出する</b></td><td>軸の値を渡すと合致する制約が返り、人が読む一覧も同じ仕組みで生成する</td><td><span class="cost">生成物を正本と取り違えないよう、<b>生成した索引は書き換え禁止にする必要がある</b></span></td></tr><tr><td><span class="n ">B</span></td><td><b>索引を手で書いて置く</b></td><td>制約を足したら、索引にも1行足す</td><td><span class="cost"><b>足し忘れが観測できない。</b>索引に無い制約は、集める側から存在しないのと同じになる</span></td></tr></table></div><h2><span class="sn">2</span>反証で分かったこと</h2><ul class='found'><li><b>索引を導出にすると、不在が観測できる</b> ── 「その軸の制約は0件」と言い切れる</li></ul><h2><span class="sn">3</span>私の推し</h2><div class="concl"><span class="n big">A</span><div><p>scripts が索引を導出する。人は索引を書かない</p></div></div><h3>なぜそう言えるか</h3><div class="scroll"><table class="why"><tr><th>結論のどこを支えるか</th><th>もとにしたこと</th><th>その出どころ</th></tr><tr><td><span class="part">導出にすること</span></td><td>同じ問いに同じ範囲が返らないと、推論の入力が毎回変わる</td><td><span class="kind k-rule">決まり</span><small>schema 観の三層の論点2（取得は冪等でありうる）</small></td></tr><tr><td><span class="part">手で書かないこと</span></td><td>足し忘れは、不在として現れない</td><td><span class="kind k-rule">決まり</span><small>論点3 の決まり（宣言されない差は、上書きの形でしか現れない）</small></td></tr></table></div><h3>引き受けること</h3><ul class="found"><li>生成した索引を、正本と取り違えないようにする</li></ul><h2><span class="sn">4</span>あなたの見解</h2><div class="you">✏　記号を選ぶ（どれでもなければ、そう言う）</div><h2><span class="sn">5</span>決まり</h2><div class="next">選ばれた案が合意になり、次の論点へ</div></section><section id="p12" role="tabpanel" hidden><p class="eyebrow">論点 12</p><h1>制約1件を、Markdown でどう書くか</h1><div class="note"><b>schema へ落とすことを前提にする。</b>機械が読む欄と、人が読む本文を分けられる形を選ぶ。</div><h2><span class="sn">1</span>反証を通過した案</h2><div class="scroll"><table class="opts"><tr><th></th><th>案</th><th>中身</th><th>代償</th></tr><tr><td><span class="n ">A</span></td><td><b>前置き（front matter）に欄、本文に言明</b></td><td>軸・出典・穴か・実行できるか を前置きへ、言明そのものを本文へ書く</td><td><span class="cost"><b>前置きは人に読みにくい。</b>読む用の一覧を、別に生成する必要がある</span></td></tr><tr><td><span class="n ">B</span></td><td><b>表で並べる（1行1制約）</b></td><td>欄を列にして、制約を行として並べる</td><td><span class="cost"><b>欄が増えると横に伸びて読めない。</b>出典のように長い欄が入ると破綻する</span></td></tr><tr><td><span class="n ">C</span></td><td><b>見出しで構造を作る</b></td><td>制約ごとに見出しを立て、その下に欄を節として書く</td><td><span class="cost"><b>欄の有無を機械で検めにくい。</b>見出しの揺れがそのまま欄の揺れになる</span></td></tr></table></div><h2><span class="sn">2</span>反証で分かったこと</h2><ul class='found'><li><b>欄と本文を分ける形は、そのまま schema の形になる</b> ── 前置きが構造、本文が推論で埋まる値</li><li><b>これは三層の「値だけを推論させる」と同じ形である</b> ── 構造は前置きが決め、言明だけが書き手に残る</li></ul><h2><span class="sn">3</span>私の推し</h2><div class="concl"><span class="n big">A</span><div><p>前置きに欄（軸・出典・穴か・実行できるか）を持ち、本文に言明を書く</p></div></div><h3>なぜそう言えるか</h3><div class="scroll"><table class="why"><tr><th>結論のどこを支えるか</th><th>もとにしたこと</th><th>その出どころ</th></tr><tr><td><span class="part">欄と本文を分けること</span></td><td>構造は schema が決め、推論に載るのは値だけである</td><td><span class="kind k-rule">決まり</span><small>schema 観の三層の論点1</small></td></tr><tr><td><span class="part">表にしないこと</span></td><td>出典は原文の文字列まで持つので、1つの欄が長くなる</td><td><span class="kind k-rule">決まり</span><small>論点8 の決まり（原文の文字列で照合する）</small></td></tr><tr><td><span class="part">見出しにしないこと</span></td><td>欄が揃っているかを、機械で検める必要がある</td><td><span class="kind k-rule">決まり</span><small>論点6 の決まり（矛盾と不足を見るのは機械の側）</small></td></tr></table></div><h3>引き受けること</h3><ul class="found"><li>前置きは人に読みにくいので、読む用の一覧を生成する</li></ul><h2><span class="sn">4</span>あなたの見解</h2><div class="you">✏　記号を選ぶ（どれでもなければ、そう言う）</div><h2><span class="sn">5</span>決まり</h2><div class="next">選ばれた案が合意になり、次の論点へ</div></section></main>
 <script>
 (function(){
   const marks = [...document.querySelectorAll('mark.chg')];
